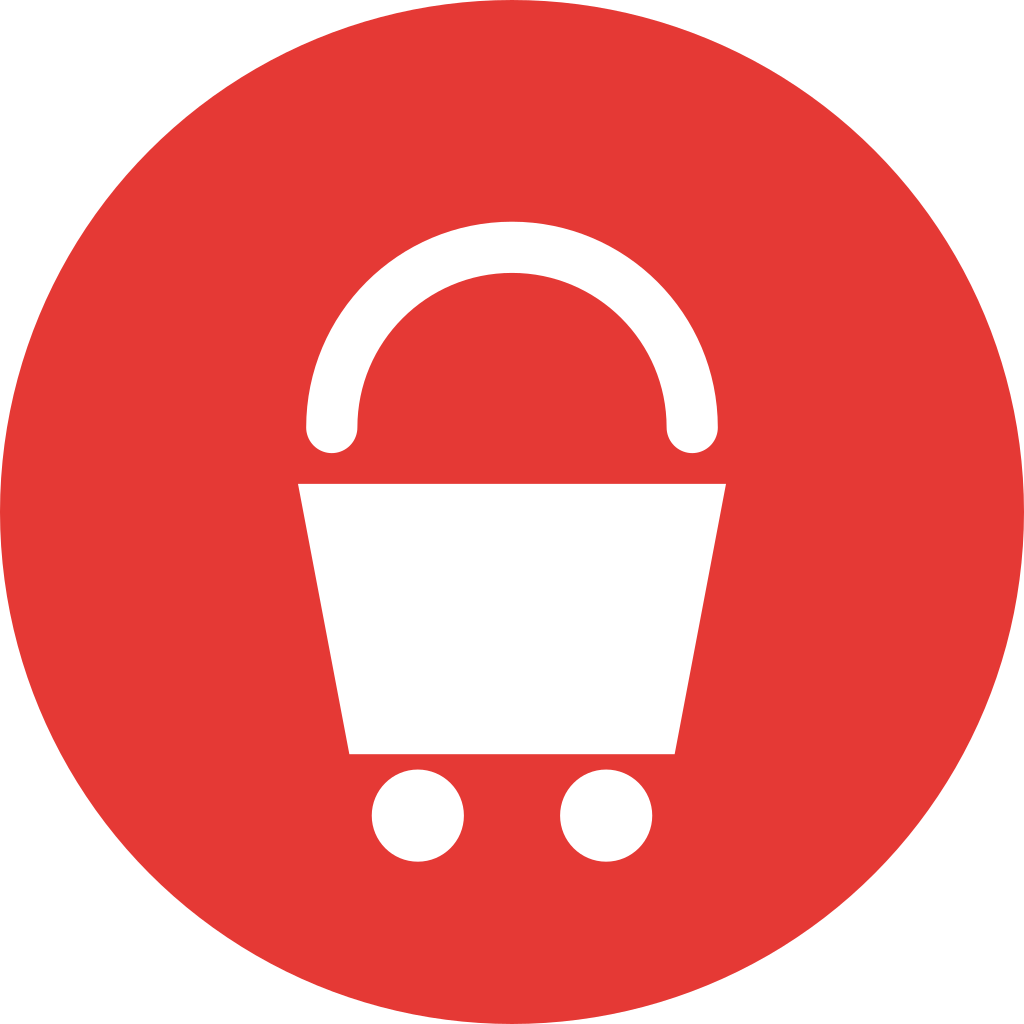
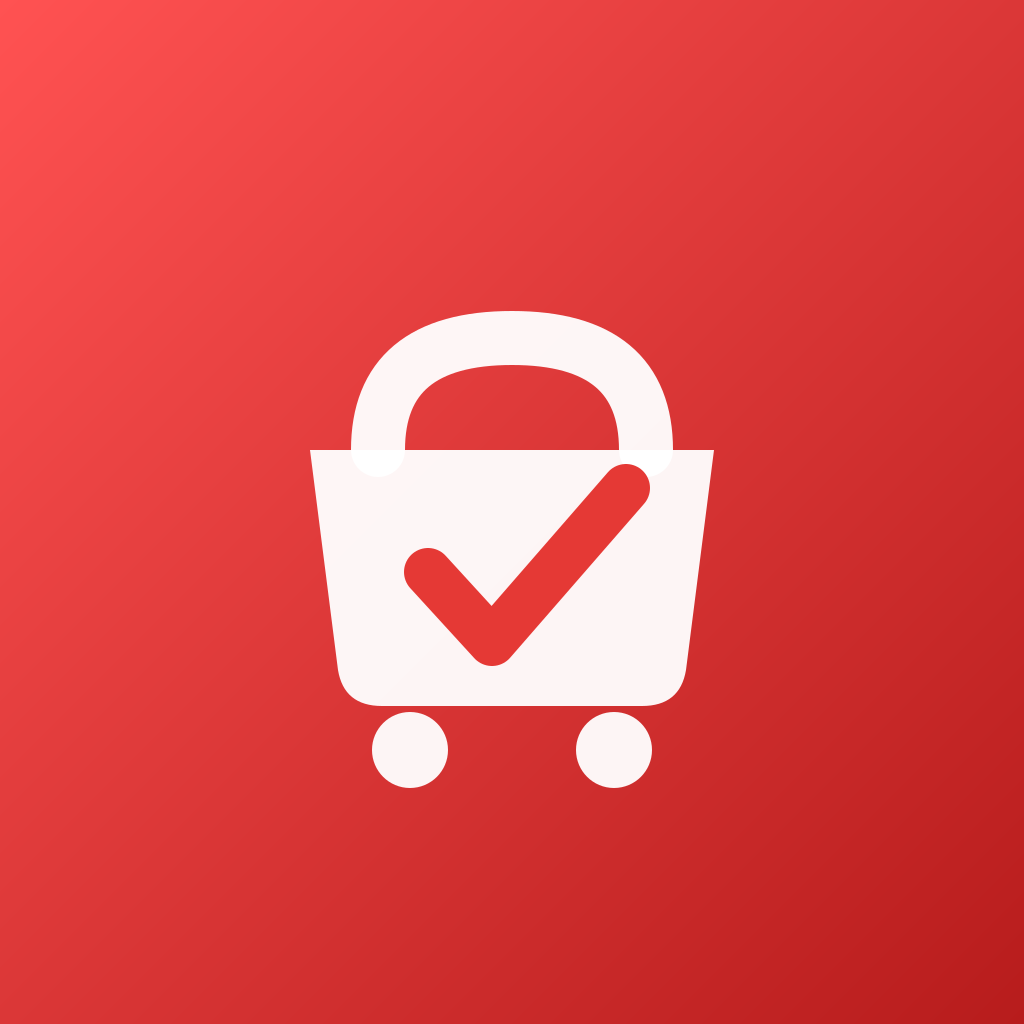
Новые иконки: красный градиент с корзиной и галочкой

diff --git a/scripts/generate-icons.js b/scripts/generate-icons.js
@@ -1,0 +1,138 @@
+const sharp = require('sharp');
+const path = require('path');
+const fs = require('fs');
+
+const assetsDir = path.join(__dirname, '../assets');
+if (!fs.existsSync(assetsDir)) fs.mkdirSync(assetsDir, { recursive: true });
+
+// SVG иконки: красный градиент + корзина с галочкой
+function makeIconSVG(size) {
+  return `<svg xmlns="http://www.w3.org/2000/svg" width="${size}" height="${size}" viewBox="0 0 1024 1024">
+  <defs>
+    <linearGradient id="grad" x1="0%" y1="0%" x2="100%" y2="100%">
+      <stop offset="0%" style="stop-color:#ff5252;stop-opacity:1" />
+      <stop offset="100%" style="stop-color:#b71c1c;stop-opacity:1" />
+    </linearGradient>
+    <linearGradient id="sheen" x1="0%" y1="0%" x2="0%" y2="100%">
+      <stop offset="0%" style="stop-color:#ffffff;stop-opacity:0.12" />
+      <stop offset="100%" style="stop-color:#000000;stop-opacity:0.08" />
+    </linearGradient>
+  </defs>
+
+  <!-- Фон — скруглённый квадрат (как иконка Android) -->
+  <rect width="1024" height="1024" rx="220" ry="220" fill="url(#grad)"/>
+  <rect width="1024" height="1024" rx="220" ry="220" fill="url(#sheen)"/>
+
+  <!-- Тело корзины -->
+  <path d="M 280 420
+           L 310 660
+           Q 316 700 358 700
+           L 666 700
+           Q 708 700 714 660
+           L 744 420
+           Z"
+        fill="white" opacity="0.95"/>
+
+  <!-- Ручка корзины -->
+  <path d="M 350 420 Q 350 300 512 300 Q 674 300 674 420"
+        fill="none" stroke="white" stroke-width="58" stroke-linecap="round" opacity="0.95"/>
+
+  <!-- Колёсики -->
+  <circle cx="390" cy="748" r="42" fill="white" opacity="0.95"/>
+  <circle cx="634" cy="748" r="42" fill="white" opacity="0.95"/>
+
+  <!-- Галочка поверх корзины -->
+  <path d="M 410 555 L 478 630 L 620 468"
+        fill="none" stroke="#e53935" stroke-width="52" stroke-linecap="round" stroke-linejoin="round"/>
+</svg>`;
+}
+
+// Adaptive icon (foreground — без фона, только рисунок)
+function makeAdaptiveSVG(size) {
+  const p = size / 1024;
+  return `<svg xmlns="http://www.w3.org/2000/svg" width="${size}" height="${size}" viewBox="0 0 1024 1024">
+  <defs>
+    <linearGradient id="grad" x1="0%" y1="0%" x2="100%" y2="100%">
+      <stop offset="0%" style="stop-color:#ff5252;stop-opacity:1" />
+      <stop offset="100%" style="stop-color:#b71c1c;stop-opacity:1" />
+    </linearGradient>
+  </defs>
+
+  <!-- Фон для adaptive icon -->
+  <rect width="1024" height="1024" fill="url(#grad)"/>
+
+  <!-- Тело корзины (чуть меньше — safe zone adaptive) -->
+  <path d="M 310 450
+           L 338 670
+           Q 344 706 382 706
+           L 642 706
+           Q 680 706 686 670
+           L 714 450
+           Z"
+        fill="white" opacity="0.95"/>
+
+  <path d="M 378 450 Q 378 338 512 338 Q 646 338 646 450"
+        fill="none" stroke="white" stroke-width="54" stroke-linecap="round" opacity="0.95"/>
+
+  <circle cx="410" cy="750" r="38" fill="white" opacity="0.95"/>
+  <circle cx="614" cy="750" r="38" fill="white" opacity="0.95"/>
+
+  <path d="M 428 572 L 492 642 L 626 488"
+        fill="none" stroke="#e53935" stroke-width="48" stroke-linecap="round" stroke-linejoin="round"/>
+</svg>`;
+}
+
+// Splash экран
+function makeSplashSVG(w, h) {
+  return `<svg xmlns="http://www.w3.org/2000/svg" width="${w}" height="${h}" viewBox="0 0 ${w} ${h}">
+  <defs>
+    <linearGradient id="bg" x1="0%" y1="0%" x2="100%" y2="100%">
+      <stop offset="0%" style="stop-color:#ff5252;stop-opacity:1" />
+      <stop offset="100%" style="stop-color:#b71c1c;stop-opacity:1" />
+    </linearGradient>
+  </defs>
+  <rect width="${w}" height="${h}" fill="url(#bg)"/>
+
+  <!-- Иконка по центру -->
+  <g transform="translate(${w/2 - 150}, ${h/2 - 200})">
+    <path d="M 60 130 L 84 300 Q 88 324 112 324 L 288 324 Q 312 324 316 300 L 340 130 Z"
+          fill="white" opacity="0.95"/>
+    <path d="M 90 130 Q 90 60 200 60 Q 310 60 310 130"
+          fill="none" stroke="white" stroke-width="28" stroke-linecap="round" opacity="0.95"/>
+    <circle cx="130" cy="352" r="24" fill="white" opacity="0.95"/>
+    <circle cx="270" cy="352" r="24" fill="white" opacity="0.95"/>
+    <path d="M 110 218 L 152 268 L 250 168"
+          fill="none" stroke="#e53935" stroke-width="26" stroke-linecap="round" stroke-linejoin="round"/>
+  </g>
+
+  <!-- Название -->
+  <text x="${w/2}" y="${h/2 + 210}" font-family="Arial, sans-serif" font-size="52" font-weight="700"
+        fill="white" text-anchor="middle" opacity="0.9">Список покупок</text>
+</svg>`;
+}
+
+async function generate() {
+  console.log('Генерирую иконки...');
+
+  // icon.png — 1024x1024
+  await sharp(Buffer.from(makeIconSVG(1024)))
+    .png()
+    .toFile(path.join(assetsDir, 'icon.png'));
+  console.log('✅ icon.png');
+
+  // adaptive-icon.png — 1024x1024
+  await sharp(Buffer.from(makeAdaptiveSVG(1024)))
+    .png()
+    .toFile(path.join(assetsDir, 'adaptive-icon.png'));
+  console.log('✅ adaptive-icon.png');
+
+  // splash.png — 1284x2778 (стандарт Expo)
+  await sharp(Buffer.from(makeSplashSVG(1284, 2778)))
+    .png()
+    .toFile(path.join(assetsDir, 'splash.png'));
+  console.log('✅ splash.png');
+
+  console.log('\nГотово! Все иконки в папке assets/');
+}
+
+generate().catch(console.error);